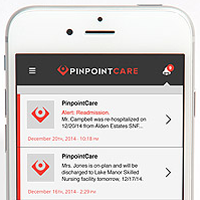
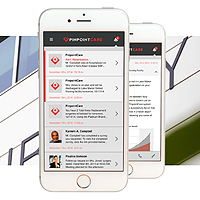
Killer updates

diff --git a/css/style.css b/css/style.css
@@ -847,8 +847,8 @@ hr.briefHR {
 
   .targetMobile, .mutareMobile, .PPCMobile {
 	position: absolute;
-	top: -45px;
-	right: 135px;
+	top: -50px;
+	right: 140px;
 	z-index: 202;
 	text-align: right;
   }
@@ -856,17 +856,17 @@ hr.briefHR {
   .targetMobile2, .mutareMobile2, .PPCMobile2 {
 	position: absolute;
 	top: -30px;
-	right: 70px;
+	right: 75px;
 	z-index: 201;
 	text-align: right;
   }
 
-  .targetMobile img, , .PPCMobile img {
-	width: 82%;
+  .targetMobile img {
+	width: 90%;
   }
 
-  .targetMobile2 img, , .PPCMobile2 img {
-	width: 60%;
+  .targetMobile2 img {
+	width: 58%;
   }
 
   .mutareMobile img {
@@ -875,6 +875,16 @@ hr.briefHR {
 
   .mutareMobile2 img {
 	width: 60%;
+  }
+
+
+  /* PPC */
+  .PPCMobile img {
+	width: 82%;
+  }
+
+  .PPCMobile2 img {
+	width: 57%;
   }
 
   /* Home Depot */
